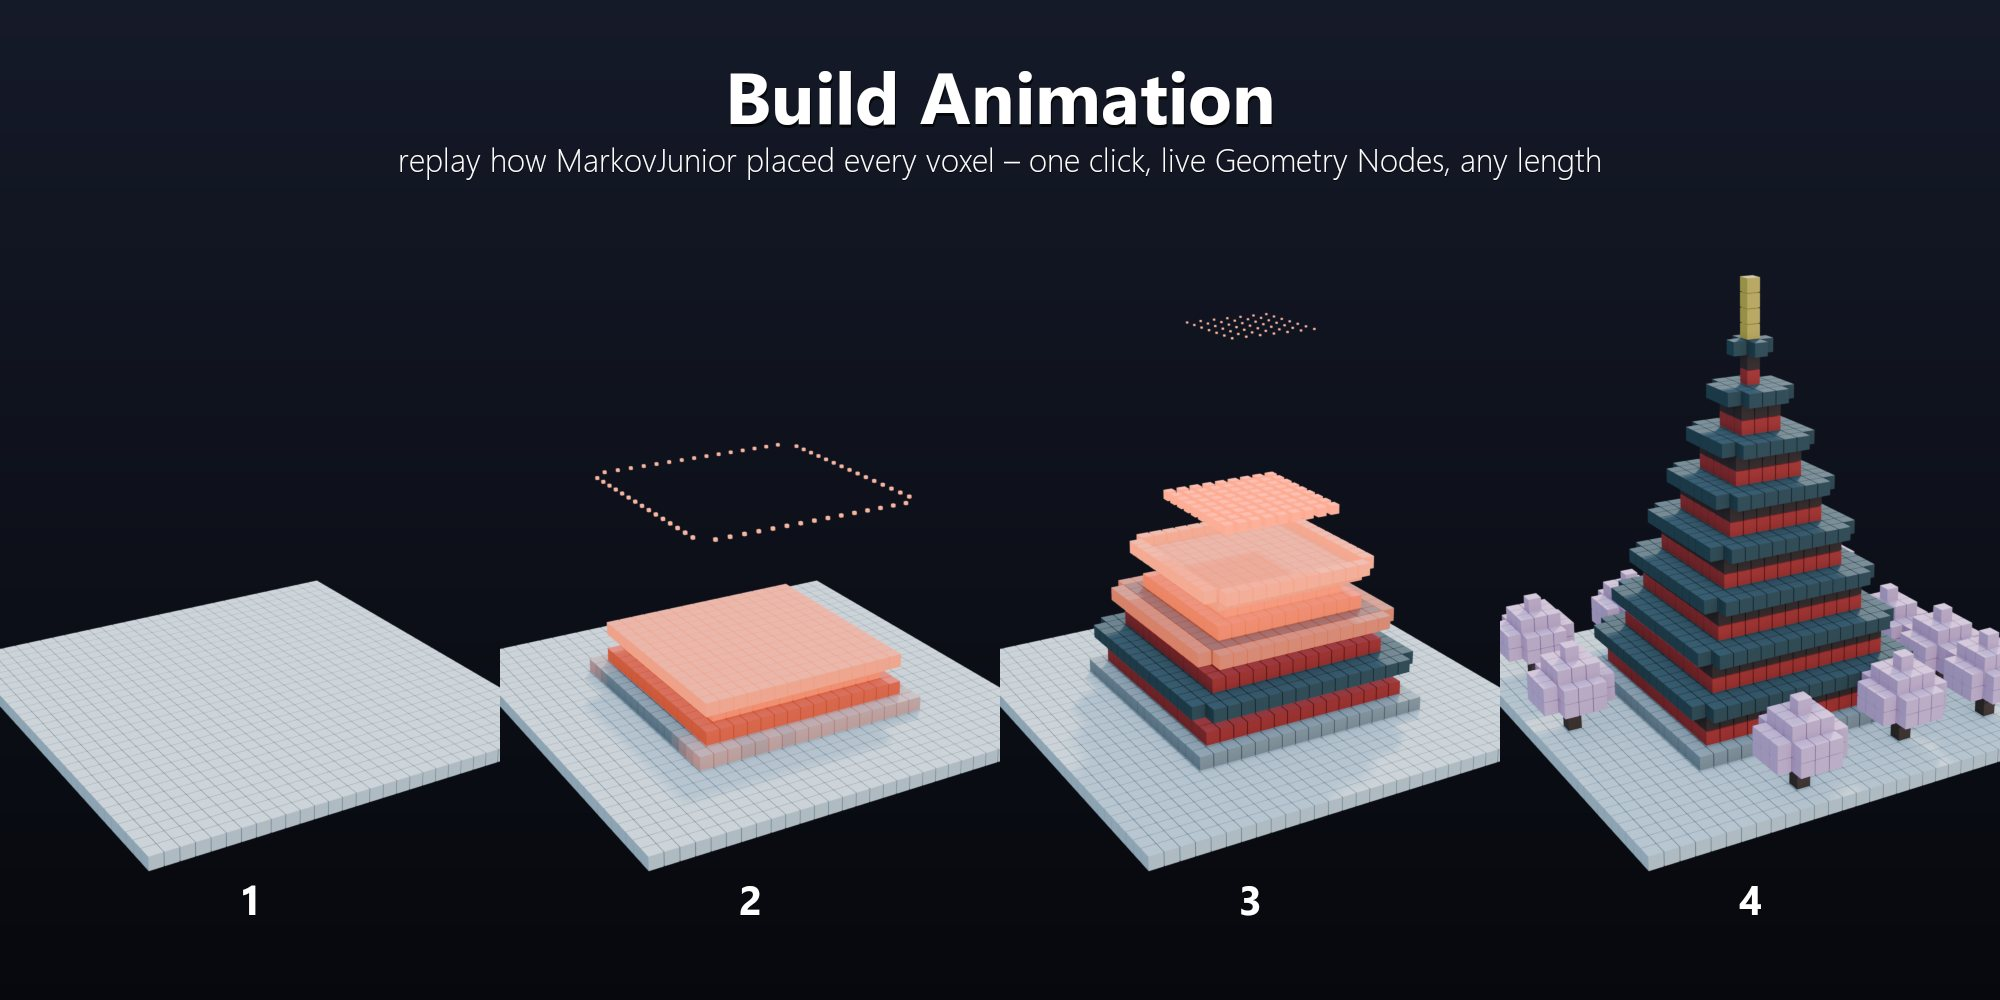
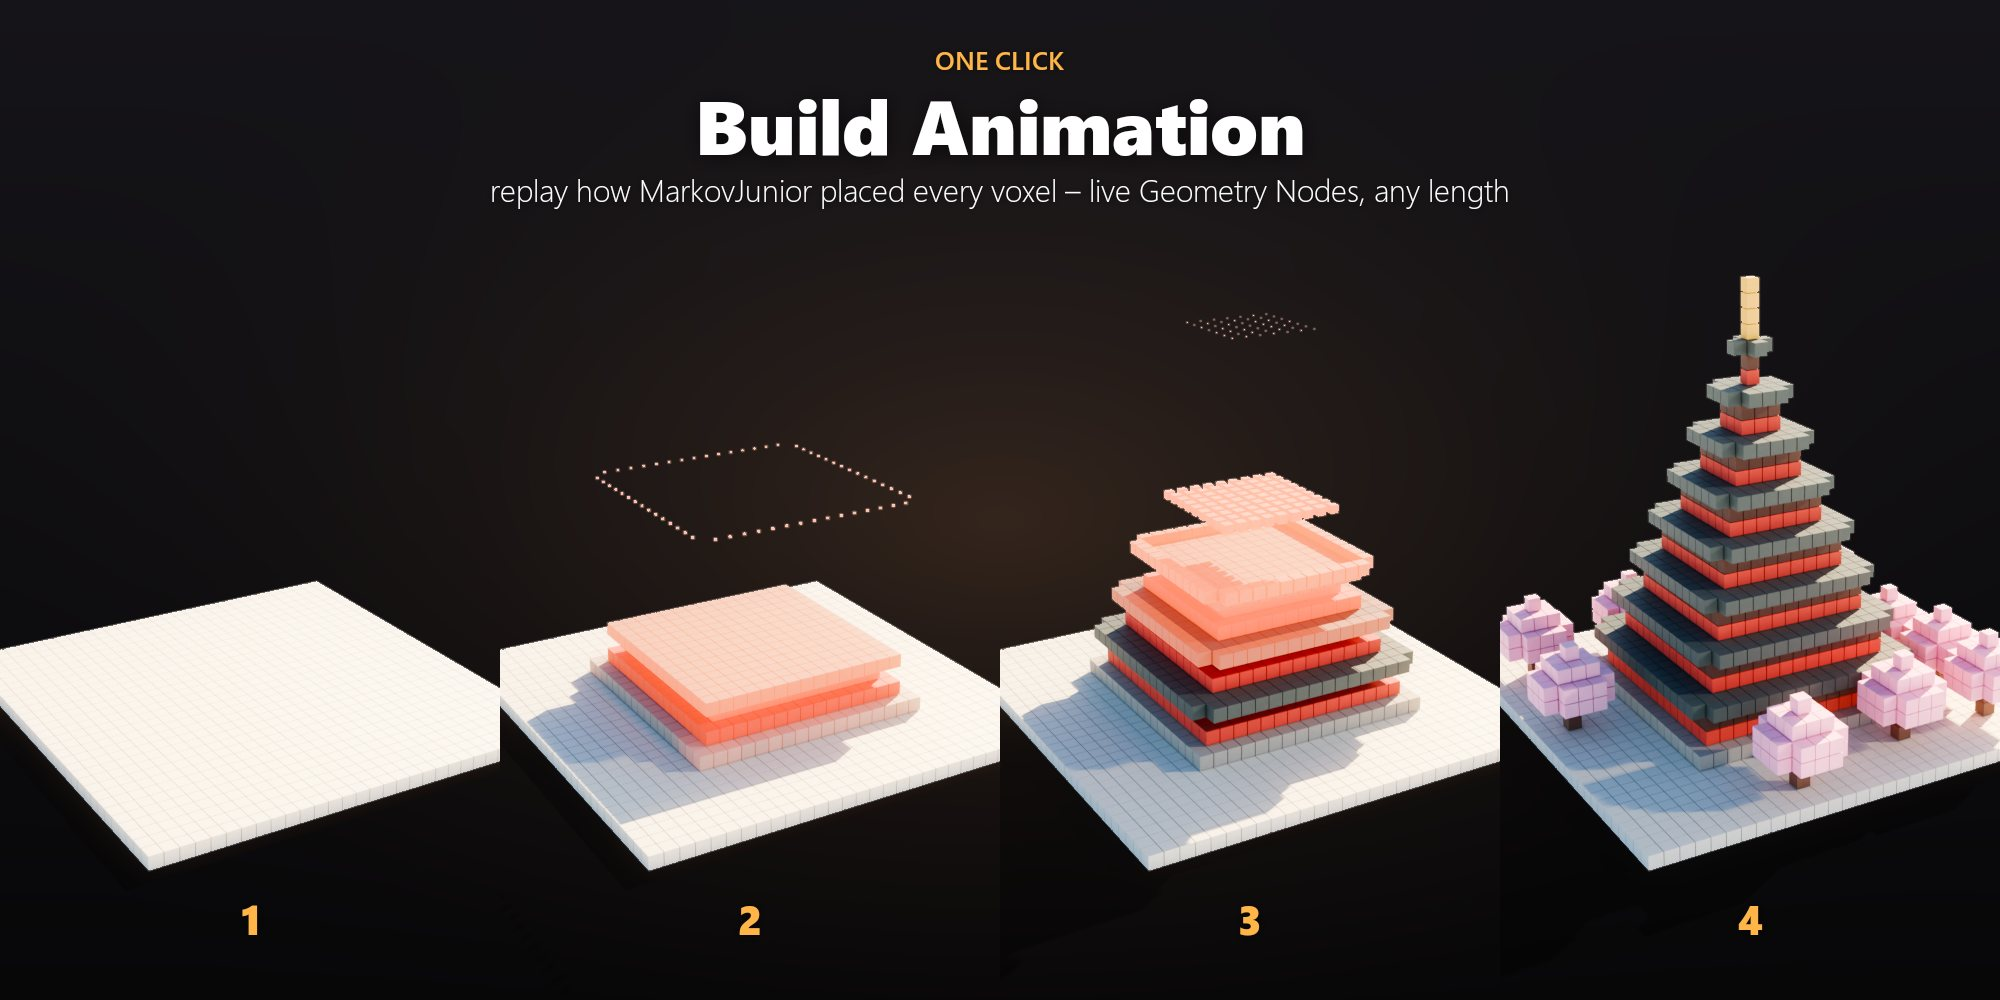
Cycles renders with haze and a gallery of the ten city styles
All renders are now Cycles with a volumetric haze and a graded composite: the
store images, the thumbnail scenes, the 3D models and build frames, the style
cards, and a wide hero render for each of the ten WFC city styles. The style
cards on the product page became a gallery of those city renders with arrows,
tabs and autoplay while visible.

diff --git a/index.html b/index.html
@@ -38,13 +38,25 @@
 .tile.px img { image-rendering: pixelated; }
 .tile span { position: absolute; left: 8px; bottom: 8px; padding: 3px 9px; border-radius: 999px; font-size: 12.5px; font-weight: 600;
   background: rgba(12,14,19,.75); color: #eef0f3; }
-.styles { display: grid; grid-template-columns: repeat(5, 1fr); gap: 12px; }
-.style { position: relative; border-radius: 14px; overflow: hidden; border: 1px solid var(--line); aspect-ratio: 4 / 5; background: #1a1d24; }
-.style img { width: 100%; height: 100%; object-fit: cover; transition: transform .5s; }
-.style:hover img { transform: scale(1.05); }
-.style div { position: absolute; left: 0; right: 0; bottom: 0; padding: 30px 12px 11px; background: linear-gradient(transparent, rgba(8,10,14,.92)); }
-.style b { display: block; font-size: 15px; }
-.style small { font-size: 12.5px; color: #b8bdc7; line-height: 1.35; display: block; }
+.gal { position: relative; border-radius: 16px; overflow: hidden; border: 1px solid var(--line); box-shadow: 0 24px 60px rgba(0,0,0,.45); background: #000; }
+.gal-track { display: flex; overflow-x: auto; scroll-snap-type: x mandatory; scroll-behavior: smooth; scrollbar-width: none; }
+.gal-track::-webkit-scrollbar { display: none; }
+.gal figure { flex: 0 0 100%; margin: 0; position: relative; scroll-snap-align: start; aspect-ratio: 2 / 1; }
+.gal figure img { width: 100%; height: 100%; object-fit: cover; }
+.gal figcaption { position: absolute; left: 0; right: 0; bottom: 0; padding: 60px 26px 20px; background: linear-gradient(transparent, rgba(8,10,14,.82)); }
+.gal figcaption b { display: block; font-size: clamp(20px, 2.6vw, 30px); font-weight: 800; letter-spacing: -.02em; }
+.gal figcaption span { color: #c9ccd3; font-size: 15px; }
+.gal-btn { position: absolute; top: 50%; transform: translateY(-50%); width: 46px; height: 46px; border-radius: 50%; border: 1px solid rgba(255,255,255,.18);
+  background: rgba(12,14,19,.6); color: #fff; font-size: 30px; line-height: 1; cursor: pointer; backdrop-filter: blur(6px); display: grid; place-items: center; padding-bottom: 4px; }
+.gal-btn:hover { background: rgba(255,181,71,.85); color: #1c1407; }
+.gal-btn.prev { left: 14px; } .gal-btn.next { right: 14px; }
+.gal-tabs { display: grid; grid-template-columns: repeat(10, 1fr); gap: 8px; margin-top: 12px; }
+.gal-tabs button { padding: 0; border: 1px solid var(--line); border-radius: 10px; overflow: hidden; background: var(--card); color: var(--muted); cursor: pointer;
+  font: 600 12px/1.2 inherit; font-family: inherit; text-align: center; transition: border-color .15s, color .15s; }
+.gal-tabs img { width: 100%; aspect-ratio: 4 / 3; object-fit: cover; opacity: .6; transition: opacity .15s; }
+.gal-tabs span { display: block; padding: 6px 4px 7px; }
+.gal-tabs button:hover img, .gal-tabs button.on img { opacity: 1; }
+.gal-tabs button.on { border-color: rgba(255,181,71,.6); color: #fff; }
 .big { margin-top: 26px; }
 .pair { display: grid; grid-template-columns: 1.15fr 1fr; gap: 16px; margin-top: 16px; }
 .pair > * { min-width: 0; }
@@ -60,7 +72,9 @@
   .demo-host { height: 600px; }
   .demo-notes, .feat, .spec { grid-template-columns: 1fr; }
   .tiles { grid-template-columns: repeat(2, 1fr); }
-  .styles { grid-template-columns: repeat(2, 1fr); }
+  .gal-tabs { grid-template-columns: repeat(5, 1fr); }
+  .gal-btn { width: 38px; height: 38px; font-size: 24px; }
+  .gal figcaption { padding: 40px 16px 12px; } .gal figcaption span { display: none; }
   .pair { grid-template-columns: 1fr; }
 }
 </style>
@@ -232,17 +246,33 @@
     <div class="kicker teal">Ten styles</div>
     <h2>One generator, <span class="grad-teal">ten cities.</span></h2>
     <p class="lead">Each style has its own modules, materials, trees and street plan: the Japanese town stays low, Cyberpunk and Brutalist build high, the Tree City is full of gardens, the Desert has large bazaar squares.</p>
-    <div class="styles big">
-      <div class="style"><img src="images/styles/classical.jpg" alt="" loading="lazy"><div><b>Classical</b><small>Stone, copper domes, terraces</small></div></div>
-      <div class="style"><img src="images/styles/mediterranean.jpg" alt="" loading="lazy"><div><b>Mediterranean</b><small>Pastel houses, canals, quays</small></div></div>
-      <div class="style"><img src="images/styles/japanese.jpg" alt="" loading="lazy"><div><b>Japanese Old Town</b><small>Timber, curved roofs, pagodas</small></div></div>
-      <div class="style"><img src="images/styles/gothic.jpg" alt="" loading="lazy"><div><b>Dark Gothic</b><small>Pointed arches, spires</small></div></div>
-      <div class="style"><img src="images/styles/desert.jpg" alt="" loading="lazy"><div><b>Desert Palace</b><small>Onion domes, bazaars, palms</small></div></div>
-      <div class="style"><img src="images/styles/cyberpunk.jpg" alt="" loading="lazy"><div><b>Cyberpunk</b><small>Neon megacity at night</small></div></div>
-      <div class="style"><img src="images/styles/steampunk.jpg" alt="" loading="lazy"><div><b>Steampunk</b><small>Brick, copper pipes, clocks</small></div></div>
-      <div class="style"><img src="images/styles/space.jpg" alt="" loading="lazy"><div><b>Space Colony</b><small>Habitats, tubes, landing pads</small></div></div>
-      <div class="style"><img src="images/styles/tree.jpg" alt="" loading="lazy"><div><b>Fantasy Tree City</b><small>Giant trunks, rope bridges</small></div></div>
-      <div class="style"><img src="images/styles/brutalist.jpg" alt="" loading="lazy"><div><b>Brutalist</b><small>Concrete megastructures</small></div></div>
+    <div class="gal big" id="gal">
+      <div class="gal-track">
+      <figure><img src="images/cities/classical.jpg" alt="Classical City generated by Cellscape: stone, copper domes and balustraded roof terraces at golden hour" loading="eager"><figcaption><b>Classical City</b><span>Stone, copper domes and balustraded roof terraces at golden hour</span></figcaption></figure>
+      <figure><img src="images/cities/mediterranean.jpg" alt="Mediterranean Canal City generated by Cellscape: pastel houses, canals with quays and bridges" loading="lazy"><figcaption><b>Mediterranean Canal City</b><span>Pastel houses, canals with quays and bridges</span></figcaption></figure>
+      <figure><img src="images/cities/japanese.jpg" alt="Japanese Old Town generated by Cellscape: timber frames, curved tiled roofs, pagodas, cherry trees" loading="lazy"><figcaption><b>Japanese Old Town</b><span>Timber frames, curved tiled roofs, pagodas, cherry trees</span></figcaption></figure>
+      <figure><img src="images/cities/gothic.jpg" alt="Dark Gothic City generated by Cellscape: pointed arches, buttresses, spires and lit windows at dusk" loading="lazy"><figcaption><b>Dark Gothic City</b><span>Pointed arches, buttresses, spires and lit windows at dusk</span></figcaption></figure>
+      <figure><img src="images/cities/desert.jpg" alt="Desert Palace and Bazaar generated by Cellscape: horseshoe arches, onion domes, market stalls, palms" loading="lazy"><figcaption><b>Desert Palace &amp; Bazaar</b><span>Horseshoe arches, onion domes, market stalls, palms</span></figcaption></figure>
+      <figure><img src="images/cities/cyberpunk.jpg" alt="Cyberpunk Megacity generated by Cellscape: neon towers in the night haze" loading="lazy"><figcaption><b>Cyberpunk Megacity</b><span>Neon towers in the night haze</span></figcaption></figure>
+      <figure><img src="images/cities/steampunk.jpg" alt="Steampunk Industrial City generated by Cellscape: brick factories, copper pipes, clock towers" loading="lazy"><figcaption><b>Steampunk Industrial City</b><span>Brick factories, copper pipes, clock towers</span></figcaption></figure>
+      <figure><img src="images/cities/space.jpg" alt="Space Colony generated by Cellscape: habitats, glass tubes and landing pads" loading="lazy"><figcaption><b>Space Colony</b><span>Habitats, glass tubes and landing pads</span></figcaption></figure>
+      <figure><img src="images/cities/tree.jpg" alt="Fantasy Tree City generated by Cellscape: houses around giant trunks, rope bridges" loading="lazy"><figcaption><b>Fantasy Tree City</b><span>Houses around giant trunks, rope bridges</span></figcaption></figure>
+      <figure><img src="images/cities/brutalist.jpg" alt="Brutalist Dystopia generated by Cellscape: board-marked concrete megastructures" loading="lazy"><figcaption><b>Brutalist Dystopia</b><span>Board-marked concrete megastructures</span></figcaption></figure>
+      </div>
+      <button type="button" class="gal-btn prev" aria-label="Previous style">&#8249;</button>
+      <button type="button" class="gal-btn next" aria-label="Next style">&#8250;</button>
+    </div>
+    <div class="gal-tabs" id="gal-tabs">
+      <button type="button" data-i="0" class="on"><img src="images/styles/classical.jpg" alt="" loading="lazy"><span>Classical</span></button>
+      <button type="button" data-i="1"><img src="images/styles/mediterranean.jpg" alt="" loading="lazy"><span>Mediterranean</span></button>
+      <button type="button" data-i="2"><img src="images/styles/japanese.jpg" alt="" loading="lazy"><span>Japanese</span></button>
+      <button type="button" data-i="3"><img src="images/styles/gothic.jpg" alt="" loading="lazy"><span>Dark Gothic</span></button>
+      <button type="button" data-i="4"><img src="images/styles/desert.jpg" alt="" loading="lazy"><span>Desert Palace</span></button>
+      <button type="button" data-i="5"><img src="images/styles/cyberpunk.jpg" alt="" loading="lazy"><span>Cyberpunk</span></button>
+      <button type="button" data-i="6"><img src="images/styles/steampunk.jpg" alt="" loading="lazy"><span>Steampunk</span></button>
+      <button type="button" data-i="7"><img src="images/styles/space.jpg" alt="" loading="lazy"><span>Space Colony</span></button>
+      <button type="button" data-i="8"><img src="images/styles/tree.jpg" alt="" loading="lazy"><span>Fantasy Tree</span></button>
+      <button type="button" data-i="9"><img src="images/styles/brutalist.jpg" alt="" loading="lazy"><span>Brutalist</span></button>
     </div>
     <p class="muted" style="margin-top:16px; font-size:15px">Plus six more tilesets: Voxel City, Kenney City (CC0), Modern City, Dungeon, Space Station – and your own collection.</p>
   </div>
@@ -327,6 +357,26 @@
   <div class="wrap">Cellscape for Blender · <a href="docs.html">Documentation</a> · <a href="demo.html">Full-screen demo</a></div>
 </footer>
 
+<script>
+(function () {
+  var gal = document.getElementById("gal"), track = gal.querySelector(".gal-track"), tabs = document.querySelectorAll("#gal-tabs button");
+  var n = tabs.length, cur = 0, auto = true;
+  function go(i) { cur = (i + n) % n; track.scrollTo({ left: cur * track.clientWidth }); }
+  function stop() { auto = false; }
+  gal.querySelector(".prev").addEventListener("click", function () { stop(); go(cur - 1); });
+  gal.querySelector(".next").addEventListener("click", function () { stop(); go(cur + 1); });
+  tabs.forEach(function (b) { b.addEventListener("click", function () { stop(); go(+b.dataset.i); }); });
+  track.addEventListener("scroll", function () {
+    var i = Math.round(track.scrollLeft / track.clientWidth);
+    if (i !== cur) cur = i;
+    tabs.forEach(function (b, k) { b.classList.toggle("on", k === cur); });
+  }, { passive: true });
+  ["pointerdown", "wheel", "touchstart"].forEach(function (e) { track.addEventListener(e, stop, { passive: true }); });
+  var seen = false;
+  if ("IntersectionObserver" in window) new IntersectionObserver(function (es) { seen = es[0].isIntersecting; }, { threshold: 0.4 }).observe(gal);
+  setInterval(function () { if (auto && seen && !document.hidden) go(cur + 1); }, 4500);
+})();
+</script>
 <script src="assets/embed.js"></script>
 <script type="module">
 import { mountDemo } from './demo/viewer.js';

diff --git a/README.md b/README.md
@@ -22,7 +22,7 @@ All pages work inside an iframe; the documentation embeds the demo itself (secti
 parent window (`{type: "cellscape-height", height}`).
 
 ```html
-<iframe src="https://blenderprocedural.github.io/cellscape/" width="100%" height="9000" style="border:0" loading="lazy"></iframe>
+<iframe src="https://blenderprocedural.github.io/cellscape/" width="100%" height="10000" style="border:0" loading="lazy"></iframe>
 <iframe src="https://blenderprocedural.github.io/cellscape/docs.html" width="100%" height="10500" style="border:0" loading="lazy"></iframe>
 <iframe src="https://blenderprocedural.github.io/cellscape/demo.html" width="100%" height="680" style="border:0" allow="fullscreen"></iframe>
 ```
